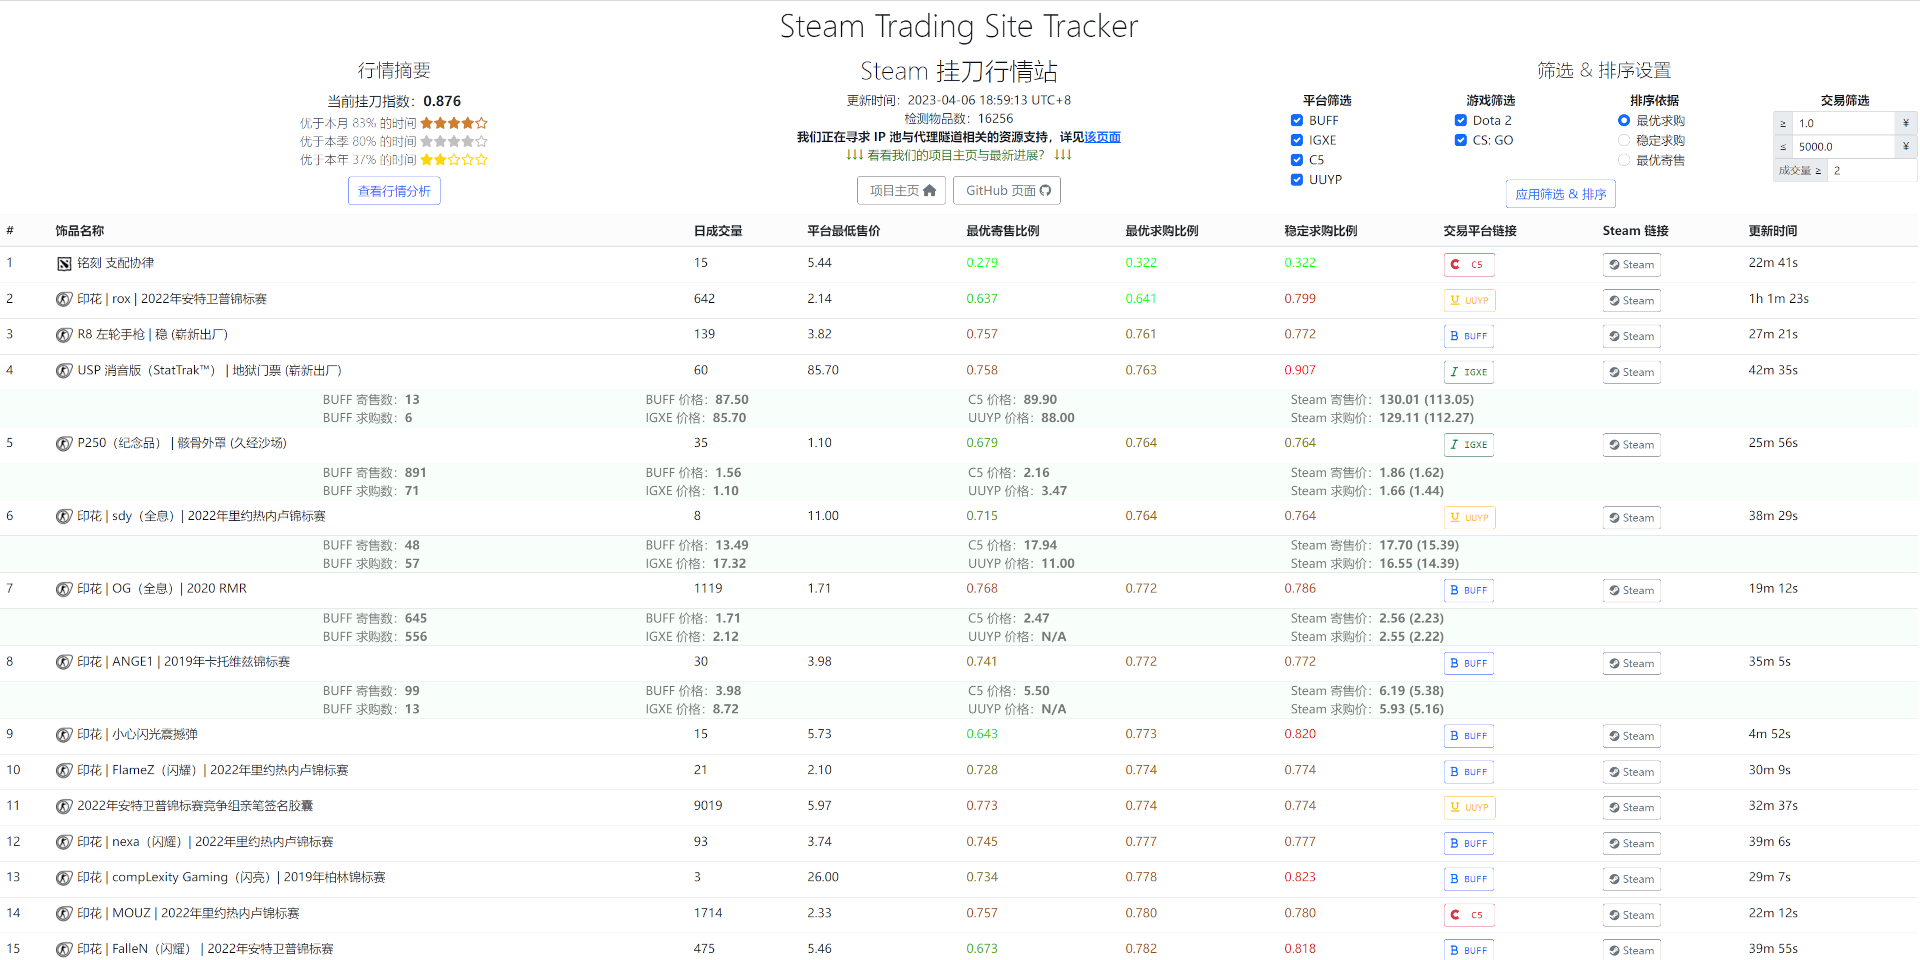
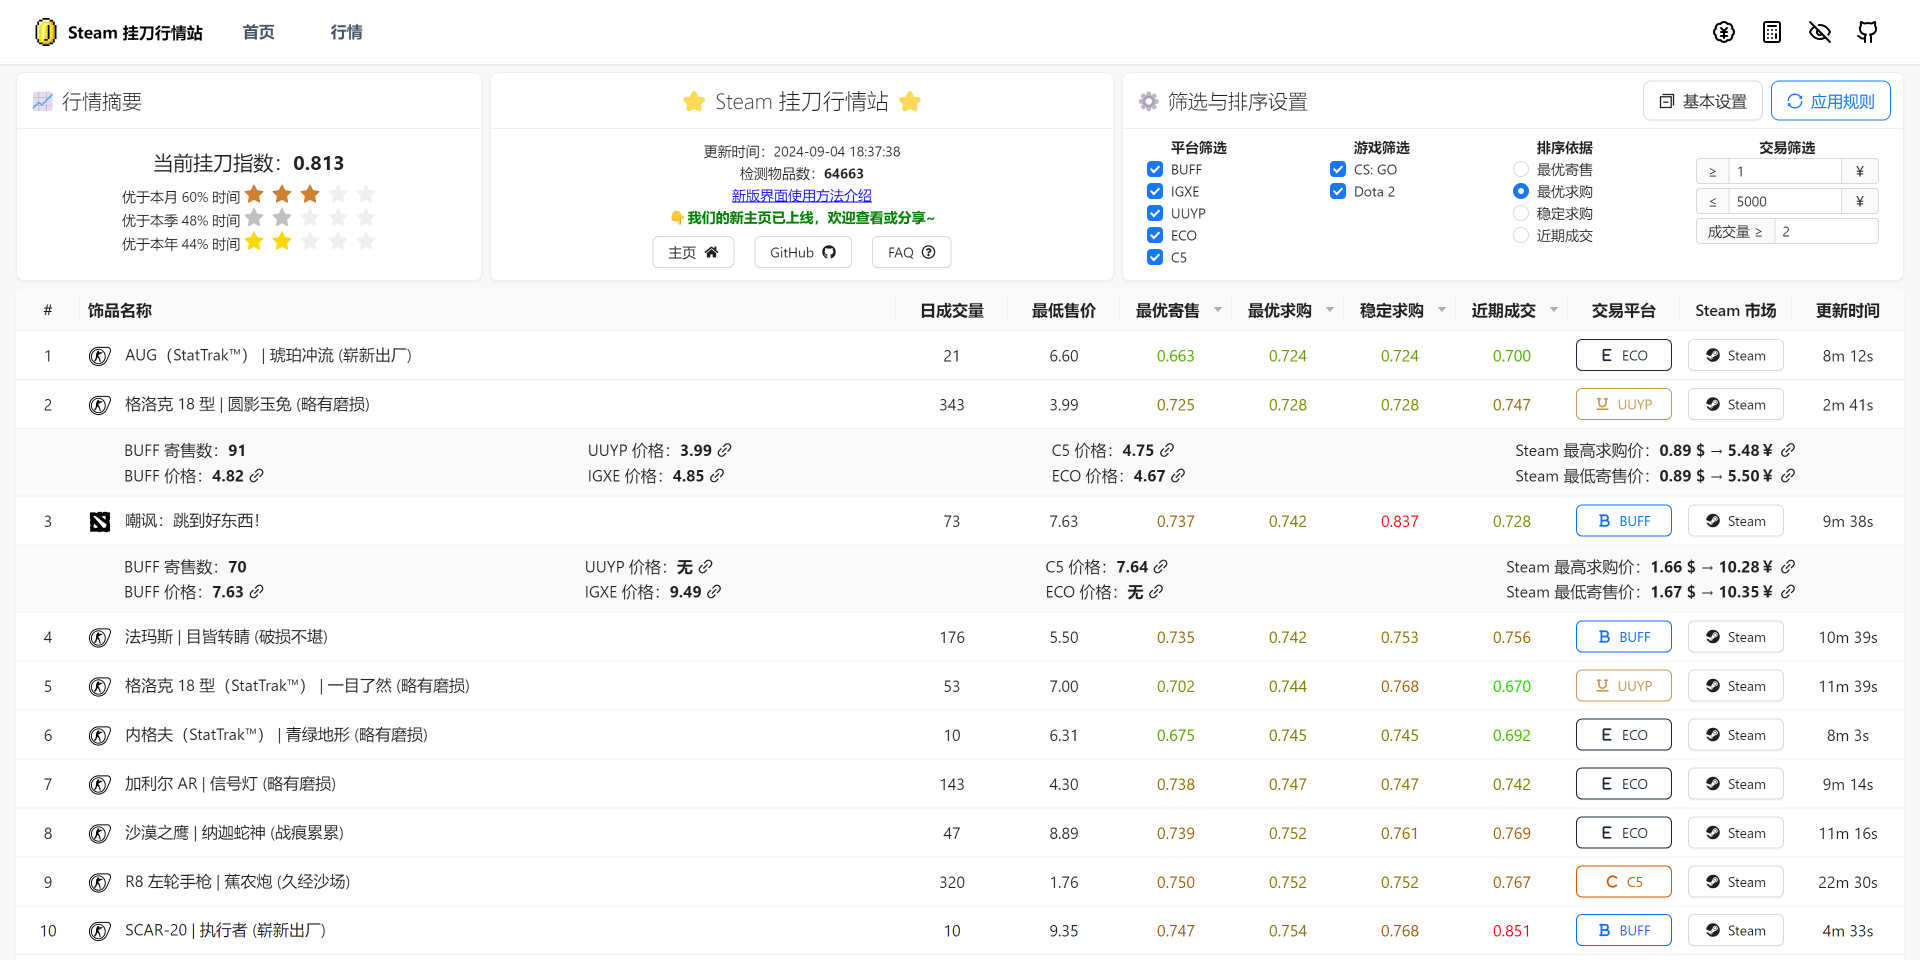
Update titlepage.png

diff --git a/README.md b/README.md
@@ -2,7 +2,7 @@
 
 # SteamTradingSiteTracker
 
-Steam 挂刀行情站 —— 全天候更新的 BUFF & IGXE & C5 & UUYP 挂刀比例数据
+Steam 挂刀行情站 —— 全天候更新的 BUFF & IGXE & C5 & UUYP & ECO 挂刀比例数据
 
 > For a description of this project in English, please refer to the [project wiki](https://github.com/EricZhu-42/SteamTradingSiteTracker/wiki)
 
@@ -26,7 +26,7 @@ We are glad to release an ID mapping for DOTA2 & CS2 tradeable items between the
 
 :star: **站点访问地址：[https://www.iflow.work/](https://www.iflow.work/)** :star:（基于 Cloudflare CDN，部分网络环境下可能无法正常访问）
 
-**24小时持续更新饰品比例数据及走势**，目前追踪 **BUFF & IGXE & C5 & UUYP** 四个主要平台所有 **CSGO & DOTA2** 饰品（共约 64000 个），并基于特定筛选规则（具体规则由[数据分析](https://github.com/EricZhu-42/SteamTradingSiteTracker-Data/blob/main/SteamBuffSnapshot/demo.ipynb)得到）维护设定饰品更新优先级，目前重点饰品数据约 **10 min** 更新一次。
+**24小时持续更新饰品比例数据及走势**，目前追踪 **BUFF & IGXE & C5 & UUYP & ECO** 五个平台所有 **CSGO & DOTA2** 饰品（共约 64000 个），并基于特定筛选规则（具体规则由[数据分析](https://github.com/EricZhu-42/SteamTradingSiteTracker-Data/blob/main/SteamBuffSnapshot/demo.ipynb)得到）维护设定饰品更新优先级，目前重点饰品数据约 **10 min** 更新一次。
 
 ## 项目架构
 
